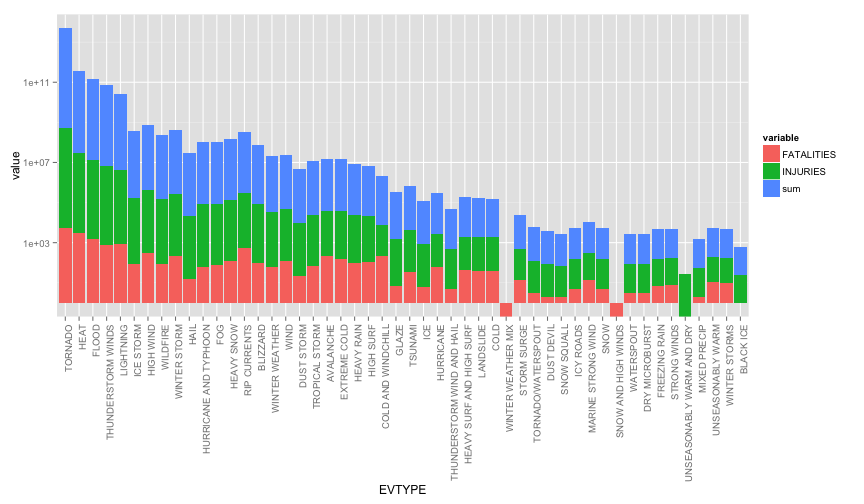
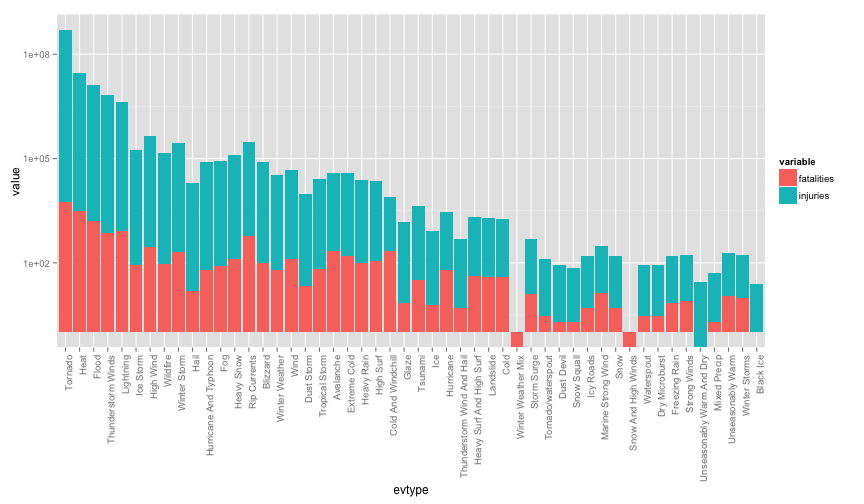
Now with plot

diff --git a/report.md b/report.md
@@ -53,7 +53,7 @@ head(sort(unique(data$EVTYPE)),20)
 ## 985 Levels:    HIGH SURF ADVISORY  COASTAL FLOOD ... WND
 ```
 
-As we can see, there are many spelling mistakes (for example "AVALANCE" instead of "AVALANCHE"), and unnecessarily detailed classes, so we need to fix that. First we make all values upper case, then change "/" and "&" to "AND" to make it easier on the eyes. We focus on the classes that are the most deadly.
+As we can see, there are many spelling mistakes (for example "AVALANCE" instead of "AVALANCHE"), abbreviations, untrimmed strings and unnecessarily detailed classes, so we need to fix that. First we make all values upper case, then change "/" and "&" to "AND" to make it easier on the eyes. We focus on the classes that are the most deadly.
 
 
 ```r
@@ -138,62 +138,34 @@ We would like to find the most harmful event types with respect to human health.
 
 
 ```r
-a <- aggregate(data=data, cbind(fatalities,injuries)~EVTYPE,FUN=sum)
-```
+a <- aggregate(data=data, cbind(fatalities,injuries)~evtype,FUN=sum)
 
-```
-## Error: object 'EVTYPE' not found
-```
-
-```r
 # Sum fatalities and injuries
 a <- transform(a, sum=injuries+fatalities)
-```
 
-```
-## Error: object 'injuries' not found
-```
-
-```r
 # Sort by sum
 a <- a[order(-a$sum),]
-```
 
-```
-## Error: invalid argument to unary operator
-```
-
-```r
 # Remove sum
 a$sum <- NULL
 
 # Make the factor reflect the order
 a$evtype <- factor(a$evtype, a$evtype)
-```
 
-```
-## Error: replacement has 0 rows, data has 150
-```
-
-```r
 # Pick out the 50 worst event types
 a <- head(a,50)
 
 # Melt so that we can color after injuries and fatalities
 a <- melt(a, id.vars="evtype")
-```
 
-```
-## Error: id variables not found in data: evtype
-```
-
-```r
 ggplot(data=a, aes(x = evtype, y = value, fill=variable)) + geom_bar(stat="identity") + theme(axis.text.x = element_text(angle = 90, hjust = 1)) + scale_y_log10() 
 ```
 
 ```
-## Error: object 'evtype' not found
+## Warning: Stacking not well defined when ymin != 0
 ```
+
+![plot of chunk unnamed-chunk-6](figure/unnamed-chunk-6.png) 
 
 # Results
 
